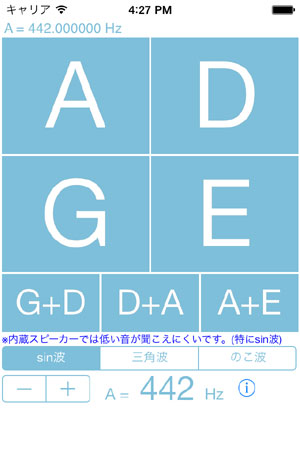
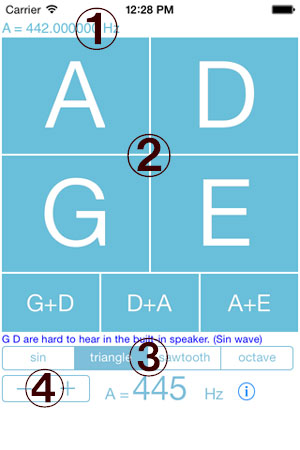
提出済み。

diff --git a/index.html b/index.html
@@ -2,6 +2,8 @@
 <html><head>
 
 
+
+
   
   <meta content="text/html; charset=UTF-8" http-equiv="content-type"><title>TuningToneForViolin PitagorasTuning</title>
   
@@ -11,37 +13,36 @@
   <meta name="viewport" content="width=device-width,initial-scale=1,maximum-scale=1,user-scalable=no"></head><body>
 <img src="./title.jpg" alt="title.jpg"><br>
 
-last update 2013/11/19<br>
+last update 2013/11/29<br>
 
 <br>更新点<br>
 ・操作ボタンをより大きくしました。<br>
 ・横向き画面に対応しました。<br>
 ・iPadの画面サイズに対応しました。<br>
 ・サイレントモードの切り替えが不要になりました。<br>
+・オクターブ上との重音を追加しました。<br>
 <br>
 TuningToneForViolinはAの周波数を元に完全五度の周波数を計算し、サイン波、三角波、のこぎり波を合成します。<br>
 ピッチパイプのような使い方を想定しています。 <br>
 楽器を構えたままの左手や、弓を持ったままの右手でも操作しやすいレイアウトです。<br>
 純粋なサイン波は他の周波数が含まれていないため、初心者でもずれた重音の音のうねりが感じられ、うまく調弦できると思います。<br>
+サイン波のG音は内蔵スピーカーでは聞き取りにくいので、「オクターブ」（sin波）をお試しください。<br>
 <br>
-Updates<br>
-changed to a large button<br>
-
-corresponds to the screen horizontally<br>
-
-corresponding to the ipad screen<br>
-
-no need to switch to silent mode<br>
+Updates<br>I have larger operation button. <br>
+Horizontal, (microphone up) now supports are placed upside down. <br>
+I was corresponding to the screen size of the iPad. <br>
+Release of the silent mode is no longer required. <br>
+I added a chord with octave.<br>
 <br>
-Calculate the frequency of the perfect fifth based on the frequency of
-A, TuningToneForViolin is synthesized sine wave, triangle wave, a
-sawtooth wave.<br>
-I assume that you are using, such as a pitch pipe.<br>
-This is a layout that is easy to operate and left hand remains poised
-instruments, even with the right hand of the remains with a bow.<br>
-I think the frequency of the other does not include pure sine wave,
-swell of sound heavy sound shifted even a beginner is felt, and can be
-tuning well.<br>
+Calculate the frequency of the perfect fifth on the basis of the
+frequency of the A, TuningToneForViolin synthesizes sine, triangle,
+sawtooth. <br>
+I assume that you are such usage of the pitch pipe. <br>
+The layout is easy to operate, even while holding a musical instrument. <br>
+I think for other frequencies does not include pure sine wave, swell of
+sound of double-stop shifted even a beginner is felt, and can be tuning
+well. <br>
+G Sound of the sine wave so difficult to hear in the built-in speaker, please try "octave" the (sin wave).<br>
 <br>
 <br>
 
@@ -49,26 +50,20 @@ tuning well.<br>
 
 <img src="./1.jpg" alt="1.jpg"><br>
 
-<img src="./2.jpg" alt="2.jpg"><br>
-
-現在鳴っている音の周波数が表示されます。<br>
+１、現在鳴っている音の周波数が表示されます。<br>
 
 Frequency of the sound is ringing current is displayed.
 <br>
 
 <br>
 
-<img src="./3.jpg" alt="3.jpg"><br>
-
-タップすると音が出ます。もう一度タップすると止まります。<br>
+２、タップすると音が出ます。もう一度タップすると止まります。<br>
 
 Sound comes out when you tap. It stops when you tap again.<br>
 
 <br>
 
-<img src="./4.jpg" alt="4.jpg"><br>
-
-sin波、三角波、のこぎり波　の三種類の波形が選べます。<br>
+３、sin波、三角波、のこぎり波　の三種類の波形が選べます。<br>
 
 can choose three types of waveform sin wave, triangle wave,sawtooth
 wave.
@@ -76,9 +71,7 @@ wave.
 
 <br>
 
-<img src="./5.jpg" alt="5.jpg"><br>
-
-Aの周波数を設定します。
+４、Aの周波数を設定します。
 <br>
 
 set A frequency.<br>

diff --git a/ViolinTraner4/com_amakusawebFirstViewController.m b/ViolinTraner4/com_amakusawebFirstViewController.m
@@ -257,7 +257,7 @@ bool octSwitch = NO;
         Leftx += _stepperFreclabelHz.frame.size.width;
         _selectWavetype.frame = CGRectMake(Leftx-5, sixthrowCenterY - 13, areawidth-Leftx-20, 26);
         Leftx += _selectWavetype.frame.size.width;
-        _helpButton.frame = CGRectMake(Leftx-5, sixthrowCenterY - 19/2, 18, 19);
+        _helpButton.frame = CGRectMake(Leftx, sixthrowCenterY - 19/2, 18, 19);
     }
 
     if (_bannerIsVisible) {
